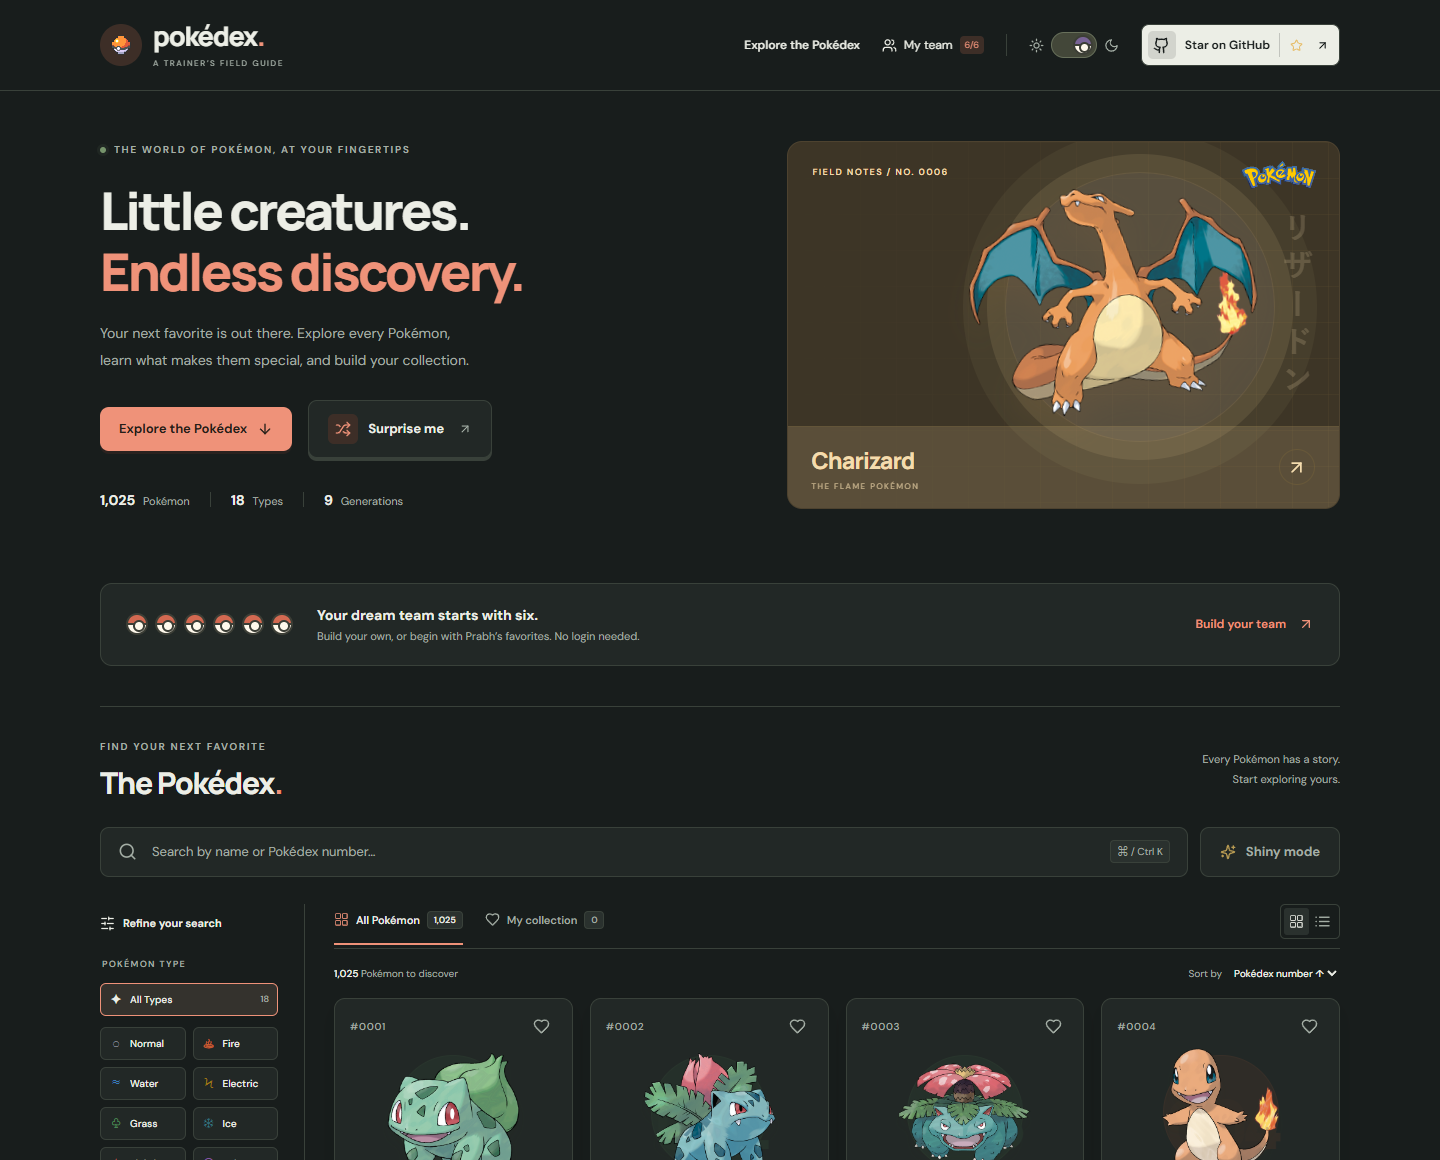
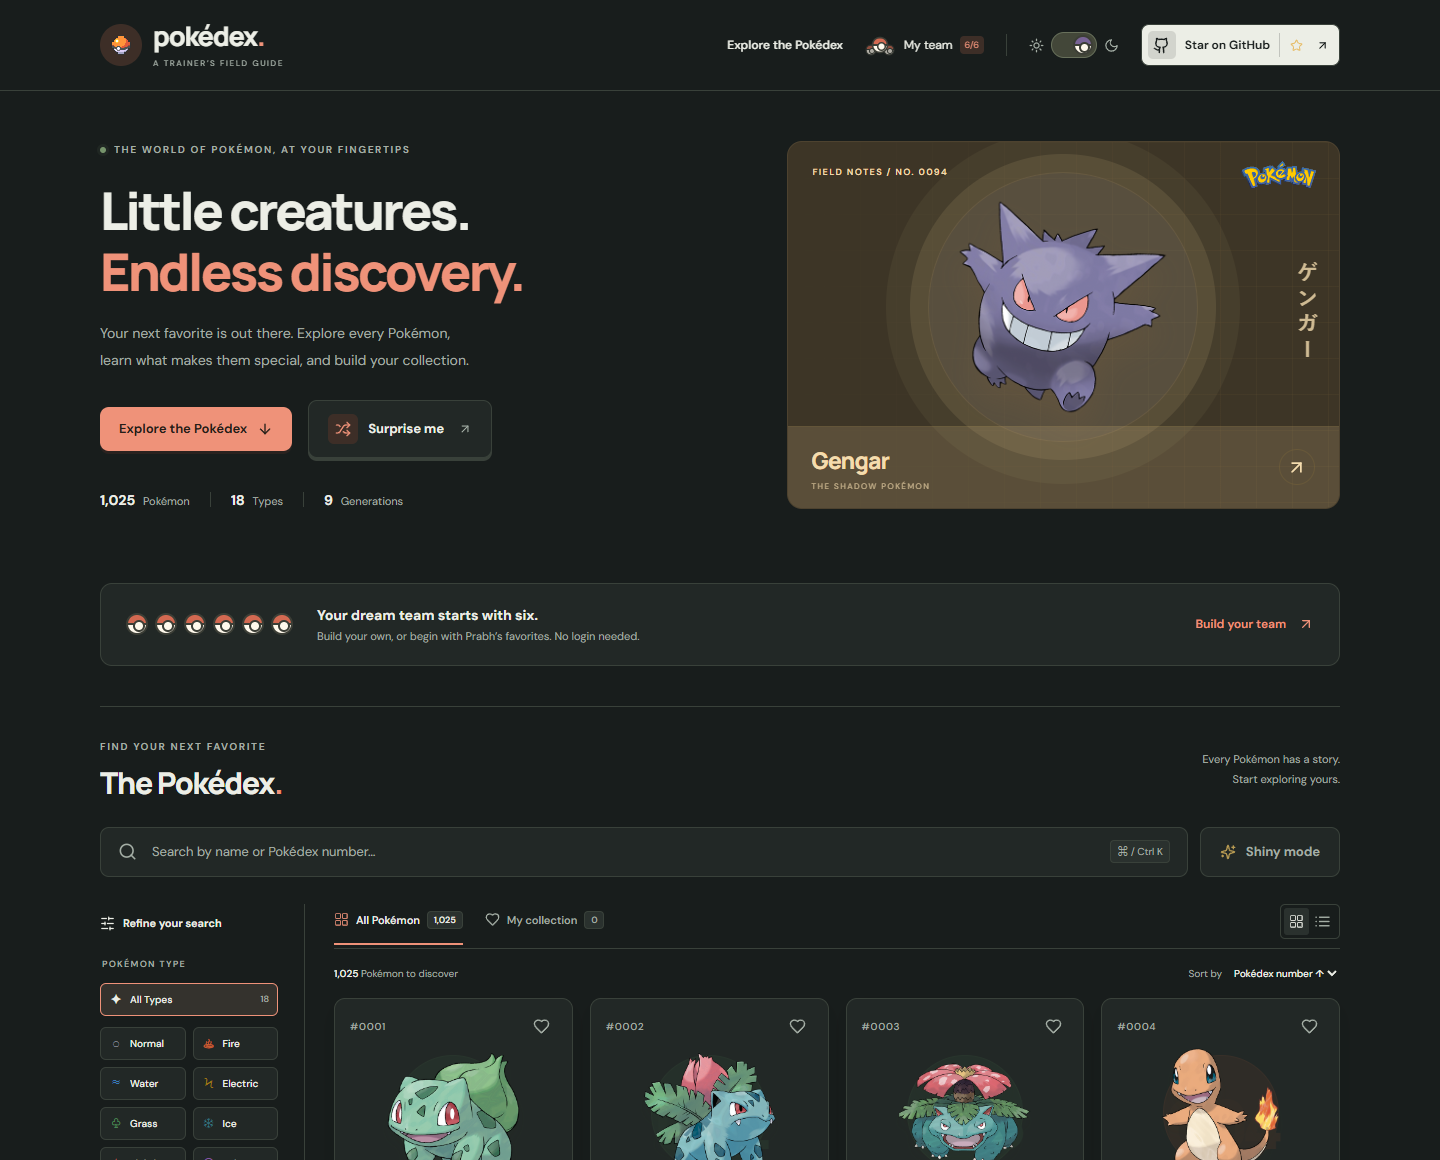
style: add Pokemon team insignia and verify responsive featured encounters

Changed region(s): [[0.625, 0.1241, 0.9062, 0.3724], [0.5, 0.031, 0.625, 0.0621], [0.5625, 0.3724, 0.625, 0.4345]]

diff --git a/tests/e2e/hero.spec.js b/tests/e2e/hero.spec.js
@@ -1,0 +1,47 @@
+import { test, expect } from '@playwright/test';
+
+test.beforeEach(async ({ page }) => {
+  await page.route('https://raw.githubusercontent.com/PokeAPI/sprites/**', (route) =>
+    route.fulfill({ path: 'public/brand/pikachu.png', contentType: 'image/png' }),
+  );
+  await page.goto('/');
+});
+
+test('refresh changes the feature and keeps its name, artwork and encounter link aligned', async ({
+  page,
+}) => {
+  const hero = page.locator('.hero-art');
+  const original = await hero.getAttribute('data-pokemon-id');
+  await page.reload();
+  await expect(hero).not.toHaveAttribute('data-pokemon-id', original);
+  const id = await hero.getAttribute('data-pokemon-id');
+  const name = await hero.locator('.hero-art-bottom strong').textContent();
+  await expect(hero).toHaveAttribute('aria-label', `Meet ${name}`);
+  await expect(hero).toHaveAttribute('href', `/?pokemon=${id}`);
+  await expect(hero.locator('.hero-pokemon')).toHaveAttribute('src', new RegExp(`/${id}\\.png$`));
+  await page.getByRole('searchbox').fill('pikachu');
+  await expect(hero).toHaveAttribute('data-pokemon-id', id);
+  await hero.click();
+  await expect(page.getByRole('dialog').getByRole('heading', { name, exact: true })).toBeVisible();
+});
+
+test('artwork is centered, contained, and separate from the visible vertical name', async ({
+  page,
+}) => {
+  for (const width of [1440, 920, 700, 390, 360]) {
+    await page.setViewportSize({ width, height: 900 });
+    const card = await page.locator('.hero-art').boundingBox();
+    const art = await page.locator('.hero-pokemon').boundingBox();
+    const rail = await page.locator('.hero-japanese').boundingBox();
+    expect(Math.abs(art.x + art.width / 2 - (card.x + card.width / 2))).toBeLessThan(2);
+    expect(art.y).toBeGreaterThan(card.y);
+    expect(art.y + art.height).toBeLessThan(card.y + card.height);
+    expect(art.x + art.width).toBeLessThanOrEqual(rail.x);
+    await expect(page.locator('.hero-japanese')).toBeVisible();
+    await expect(page.getByRole('link', { name: /My teams, 6 of 6/ })).toBeVisible();
+    await expect(page.locator('.team-nav-emblem')).toBeVisible();
+    expect(await page.evaluate(() => document.documentElement.scrollWidth <= innerWidth)).toBe(
+      true,
+    );
+  }
+});

diff --git a/src/components/Header.jsx b/src/components/Header.jsx
@@ -1,4 +1,4 @@
-import { ArrowUpRight, Github, Star, Users } from 'lucide-react';
+import { ArrowUpRight, Github, Star } from 'lucide-react';
 import { useContext } from 'react';
 import { TeamContext } from '../context/TeamContext';
 import { Link } from 'react-router-dom';
@@ -33,7 +33,11 @@ export default function Header({ theme, toggleTheme }) {
             to="/teams"
             aria-label={`My teams, ${activeTeam.members.length} of 6 companions`}
           >
-            <Users size={15} />
+            <span className="team-nav-emblem" aria-hidden="true">
+              <span className="pokeball-mark" />
+              <span className="pokeball-mark" />
+              <span className="pokeball-mark" />
+            </span>
             <span>My team</span>
             <small>{activeTeam.members.length}/6</small>
           </Link>

diff --git a/src/styles/teams.css b/src/styles/teams.css
@@ -15,6 +15,37 @@
   color: var(--muted);
   font-size: 13px;
 }
+.teams-nav > .team-nav-emblem {
+  display: block;
+  position: relative;
+  width: 32px;
+  height: 26px;
+  flex-shrink: 0;
+}
+.team-nav-emblem .pokeball-mark {
+  position: absolute;
+  top: 2px;
+  left: 4px;
+  transform: scale(0.75);
+}
+.team-nav-emblem .pokeball-mark:first-child {
+  left: -5px;
+  top: 7px;
+  transform: scale(0.5);
+  opacity: 0.65;
+}
+.team-nav-emblem .pokeball-mark:last-child {
+  left: 13px;
+  top: 7px;
+  transform: scale(0.5);
+  opacity: 0.65;
+}
+.team-nav-emblem .pokeball-mark:nth-child(2) {
+  z-index: 1;
+}
+.teams-nav:hover .team-nav-emblem {
+  transform: translateY(-1px);
+}
 .teams-nav small {
   padding: 3px 5px;
   background: var(--accent-soft);

diff --git a/README.md b/README.md
@@ -19,7 +19,7 @@ Warm paper, official artwork, and 1,025 new reasons to explore.
 
 <br />
 
-<img src="docs/images/desktop.png" alt="The real Pokédex app: cream field-guide interface, Charizard hero, elemental filters, and collectible Pokémon cards" width="100%" />
+<img src="docs/images/desktop.png" alt="The real Pokédex app: cream field-guide interface, rotating featured Pokémon, elemental filters, and collectible cards" width="100%" />
 
 <sub>Actual browser capture. Original Pokémon artwork. No generated promotional imagery.</sub>
 
@@ -45,7 +45,7 @@ Your next favorite might be in Kanto. Or it might be #1025. Search the **entire 
 <br />
 <img src="docs/images/dark.png" alt="The Pokédex in its green-charcoal night theme" width="100%" />
 <br /><br />
-<img src="docs/images/details.png" alt="Charizard field notes with real artwork, base-stat meters, abilities, weaknesses, and evolution connections" width="100%" />
+<img src="docs/images/details.png" alt="Pokémon field notes with real artwork, base-stat meters, abilities, weaknesses, and evolution connections" width="100%" />
 <br /><br />
 <img src="docs/images/mobile.png" alt="The responsive Pokémon field guide on a 390px mobile screen" width="280" />
 <br />

diff --git a/docs/DESIGN.md b/docs/DESIGN.md
@@ -9,6 +9,7 @@ The interface borrows from a trainer's notebook: warm paper, quiet borders, a re
 - **Motion:** small hover movements with `prefers-reduced-motion` support. No autoplay sound.
 - **Mobile:** two card columns, horizontally scrollable type filters, compact header controls, and vertically stacked detail panels.
 - **Assets:** real sourced artwork and actual browser screenshots; see `ATTRIBUTION.md`.
+- **Featured encounters:** twelve sourced Pokémon rotate on page refresh, excluding the previous feature when browser storage is available. Centered artwork and a dedicated Japanese-name rail keep the card readable at every breakpoint. The feature stays stable during filtering and navigation within the same page load.
 - **Teams:** a six-slot notebook workbench with numbered companions, explicit lead ordering, type-based artwork accents, and local-save feedback. The developer gallery separates personal favorites from editable starter sixes.
 - **Controls:** tactile encounter and discovery buttons, a dark GitHub badge, and a Poké Ball return-to-base control. Icon-only header controls retain accessible names on mobile.
 
